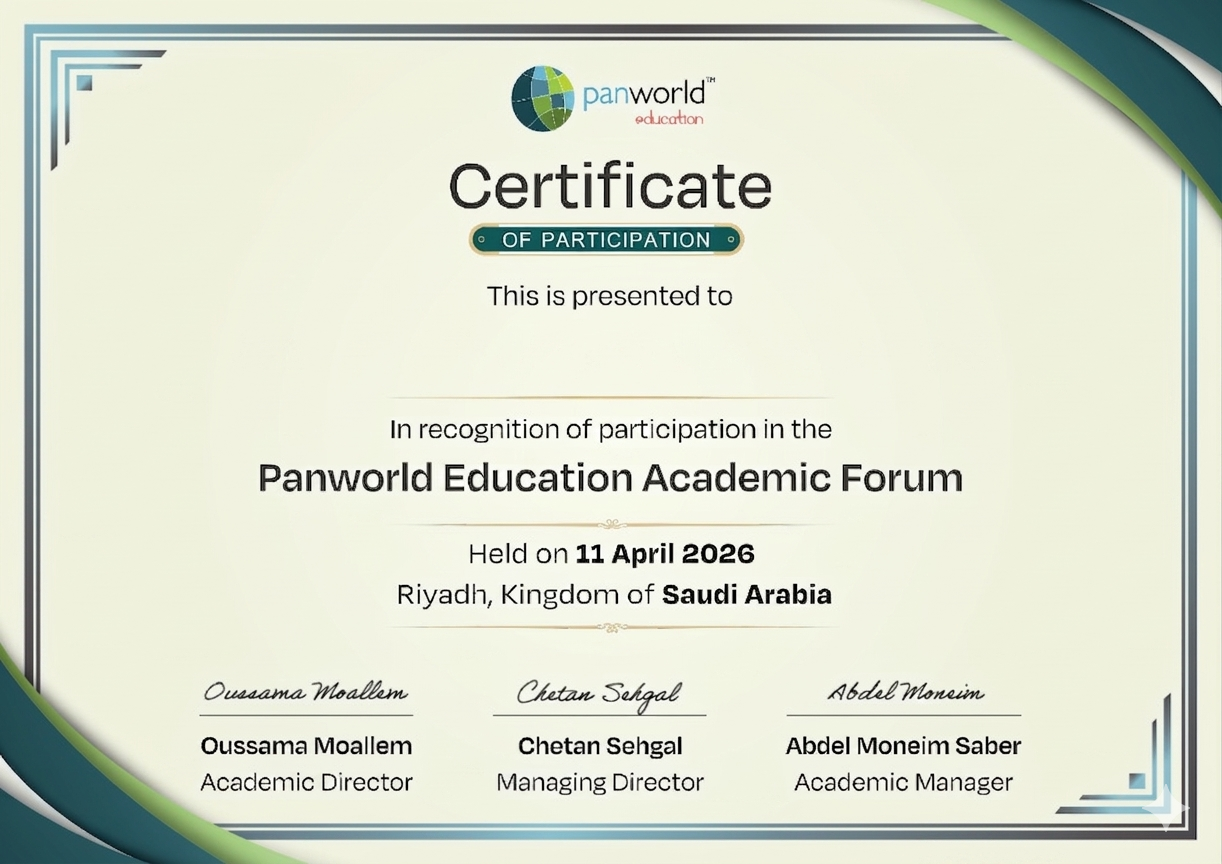
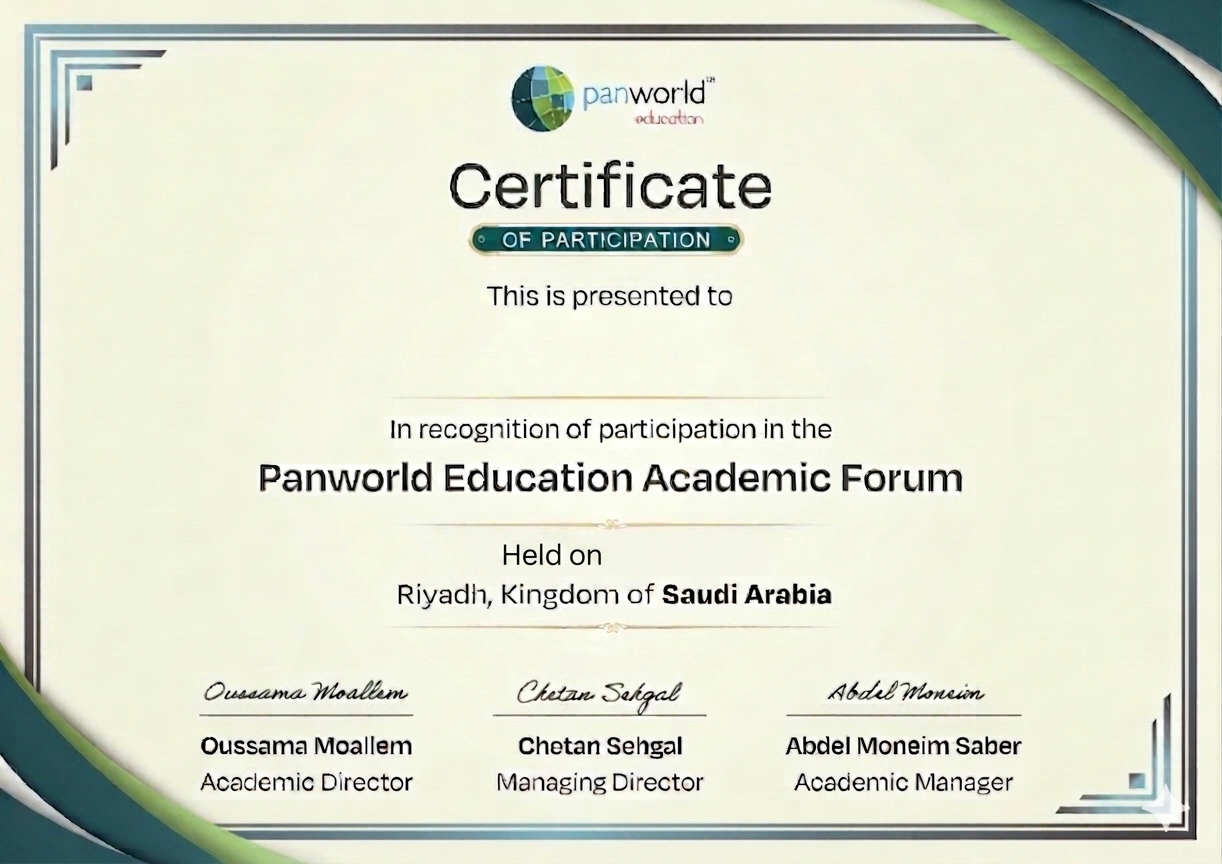
Add date field, fix PDF download, set default date, rename button to Download Certificate

diff --git a/index.html b/index.html
@@ -6,6 +6,7 @@
     <title>Panworld Certificate Generator</title>
     <script src="https://cdnjs.cloudflare.com/ajax/libs/html2pdf.js/0.10.2/html2pdf.bundle.min.js"></script>
     <script src="https://cdnjs.cloudflare.com/ajax/libs/html2canvas/1.4.1/html2canvas.min.js"></script>
+    <script src="https://cdnjs.cloudflare.com/ajax/libs/jspdf/2.5.1/jspdf.umd.min.js"></script>
     <link href="https://fonts.googleapis.com/css2?family=Inter:wght@300;400;500;600;700;800&display=swap" rel="stylesheet">
     <link rel="stylesheet" href="https://cdnjs.cloudflare.com/ajax/libs/font-awesome/6.5.1/css/all.min.css">
     <style>
@@ -374,6 +375,25 @@
             display: block;
         }
 
+        .controls-card input[type="date"] {
+            padding: 10px 16px;
+            font-size: 14px;
+            border: 2px solid rgba(255,255,255,0.2);
+            border-radius: 10px;
+            width: 180px;
+            outline: none;
+            font-family: 'Inter', sans-serif;
+            background: rgba(255,255,255,0.08);
+            color: #fff;
+            transition: border-color 0.2s, box-shadow 0.2s;
+            color-scheme: dark;
+        }
+
+        .controls-card input[type="date"]:focus {
+            border-color: #4dd0e1;
+            box-shadow: 0 0 0 3px rgba(77,208,225,0.2);
+        }
+
         /* ===== Certificate ===== */
         .cert-container {
             border-radius: 12px;
@@ -427,6 +447,21 @@
             line-height: 1;
             white-space: nowrap;
             letter-spacing: 0.5px;
+            z-index: 2;
+        }
+
+        .date-overlay {
+            position: absolute;
+            top: 64.35%;
+            left: 49.8%;
+            transform: translateY(-50%);
+            text-align: left;
+            font-family: 'Inter', sans-serif;
+            font-weight: 700;
+            font-size: 24px;
+            color: #1a1a1a;
+            line-height: 1;
+            white-space: nowrap;
             z-index: 2;
         }
 
@@ -584,7 +619,9 @@
         <div class="controls-card">
             <label for="nameInput">Participant Name:</label>
             <input type="text" id="nameInput" placeholder="Enter full name..." oninput="updateName()" maxlength="60">
-            <button class="download-btn" id="downloadBtn" onclick="downloadPDF()">⬇ Download PDF</button>
+            <label for="dateInput">Event Date:</label>
+            <input type="date" id="dateInput" oninput="updateDate()" style="width: 180px;">
+            <button class="download-btn" id="downloadBtn" onclick="downloadPDF()">⬇ Download Certificate</button>
         </div>
 
         <div class="content-row">
@@ -594,6 +631,7 @@
                         <div class="cert-wrapper" id="certificate">
                             <img class="cert-bg" src="certificate.png" alt="Certificate" crossorigin="anonymous">
                             <div class="name-overlay" id="certName">Participant Name</div>
+                            <div class="date-overlay" id="certDate"></div>
                         </div>
                     </div>
                 </div>
@@ -662,8 +700,19 @@
 
     <script>
         const nameEl = document.getElementById('certName');
+        const dateEl = document.getElementById('certDate');
         const inputEl = document.getElementById('nameInput');
+        const dateInputEl = document.getElementById('dateInput');
         const wrapperWidth = 1122;
+
+        // Set today's date as default
+        (function() {
+            var today = new Date();
+            var yyyy = today.getFullYear();
+            var mm = String(today.getMonth() + 1).padStart(2, '0');
+            var dd = String(today.getDate()).padStart(2, '0');
+            dateInputEl.value = yyyy + '-' + mm + '-' + dd;
+        })();
 
         function updateName() {
             const name = inputEl.value.trim();
@@ -671,6 +720,30 @@
             fitName();
             if (name) { hideWarning(); hideSubmitWarning(); }
         }
+
+        // Format date as "11 April 2026"
+        function formatDate(dateStr) {
+            if (!dateStr) return '';
+            var parts = dateStr.split('-');
+            if (parts.length !== 3) return '';
+            var year = parseInt(parts[0]);
+            var month = parseInt(parts[1]);
+            var day = parseInt(parts[2]);
+            if (isNaN(year) || isNaN(month) || isNaN(day)) return '';
+            if (month < 1 || month > 12 || day < 1 || day > 31) return '';
+            var months = ['January','February','March','April','May','June','July','August','September','October','November','December'];
+            return day + ' ' + months[month - 1] + ' ' + year;
+        }
+
+        function updateDate() {
+            var val = dateInputEl.value;
+            var formatted = formatDate(val);
+            dateEl.textContent = formatted;
+            if (val) { hideWarning(); }
+        }
+
+        // Show today's date on the certificate at load
+        updateDate();
 
         function fitName() {
             const MAX = 56;
@@ -686,8 +759,15 @@
 
         function downloadPDF() {
             const name = inputEl.value.trim();
-            if (!name) {
-                showWarning();
+            const date = dateInputEl.value;
+            if (!name || !date) {
+                var msg = !name && !date ? '⚠ Please enter participant name and event date.' : !name ? '⚠ Please enter a participant name.' : '⚠ Please select an event date.';
+                var el = document.getElementById('shareWarning');
+                el.textContent = msg;
+                el.style.color = '';
+                el.style.background = '';
+                el.style.borderColor = '';
+                el.classList.add('visible');
                 return;
             }
             hideWarning();
@@ -696,28 +776,31 @@
             const filename = name + ' Certificate.pdf';
             const btn = document.getElementById('downloadBtn');
 
-            // Temporarily reset the scale for PDF capture
-            element.style.transform = 'scale(1)';
-
-            const opt = {
-                margin:       0,
-                filename:     filename,
-                image:        { type: 'jpeg', quality: 1 },
-                html2canvas:  { scale: 3, useCORS: true, width: 1122, height: 793, backgroundColor: '#ffffff' },
-                jsPDF:        { unit: 'px', format: [1122, 793], orientation: 'landscape', hotfixes: ['px_scaling'] }
-            };
-
             btn.textContent = 'Generating...';
             btn.disabled = true;
 
-            html2pdf().set(opt).from(element).save().then(function() {
+            // Use the same approach as getCertificateImage (which works correctly)
+            element.style.transform = 'scale(1)';
+
+            html2canvas(element, { scale: 3, useCORS: true, width: 1122, height: 793, backgroundColor: '#ffffff' }).then(function(canvas) {
                 element.style.transform = '';
-                btn.textContent = '⬇ Download PDF';
+
+                var imgData = canvas.toDataURL('image/jpeg', 1.0);
+                var pdf = new jspdf.jsPDF({
+                    orientation: 'landscape',
+                    unit: 'px',
+                    format: [1122, 793],
+                    hotfixes: ['px_scaling']
+                });
+                pdf.addImage(imgData, 'JPEG', 0, 0, 1122, 793);
+                pdf.save(filename);
+
+                btn.textContent = '⬇ Download Certificate';
                 btn.disabled = false;
             }).catch(function(err) {
                 console.error(err);
                 element.style.transform = '';
-                btn.textContent = '⬇ Download PDF';
+                btn.textContent = '⬇ Download Certificate';
                 btn.disabled = false;
                 alert('Could not generate PDF. Please run this from a local web server.');
             });
@@ -727,9 +810,16 @@
         function getCertificateImage() {
             return new Promise(function(resolve, reject) {
                 const name = inputEl.value.trim();
-                if (!name) {
-                    showWarning();
-                    reject('No name');
+                const date = dateInputEl.value;
+                if (!name || !date) {
+                    var msg = !name && !date ? '⚠ Please enter participant name and event date.' : !name ? '⚠ Please enter a participant name.' : '⚠ Please select an event date.';
+                    var el = document.getElementById('shareWarning');
+                    el.textContent = msg;
+                    el.style.color = '';
+                    el.style.background = '';
+                    el.style.borderColor = '';
+                    el.classList.add('visible');
+                    reject('Missing fields');
                     return;
                 }
                 hideWarning();
